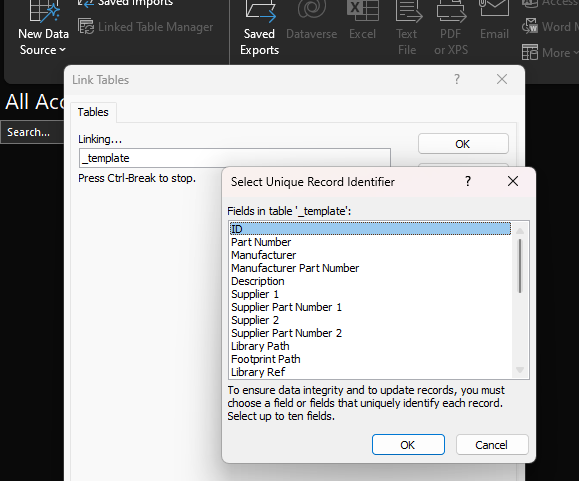
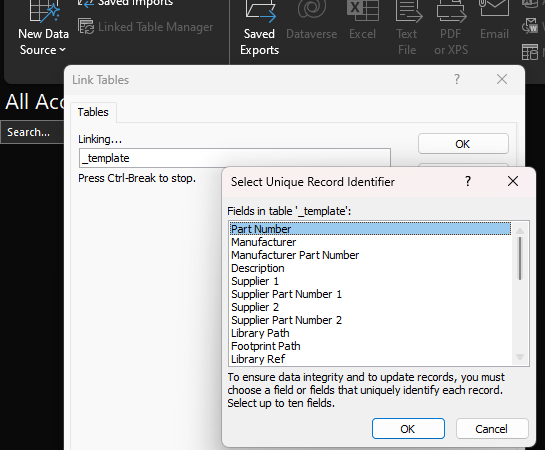
Added setting unique record identifier to readme

Changed region(s): [[0.0, 0.0, 1.0, 1.0]]

diff --git a/README.md b/README.md
@@ -159,7 +159,7 @@ The recommended way to add new components to the database is to set up a Data So
 <div style="text-align:center"><img src ="readme_pics/11.png" ></div>
 <div style="text-align:center"><font color="grey"><i>Fig. 11: Connecting to the Database: Set up a Data Source link (step 6)</i></font></div><p></p>
 
-#### 8. Select `ID` as the unique record identifier and click `OK`.
+#### 8. Select `Part Number` as the unique record identifier and click `OK`.
 
 <div style="text-align:center"><img src ="readme_pics/12.png" ></div>
 <div style="text-align:center"><font color="grey"><i>Fig. 12: Connecting to the Database: Set up a Data Source link (step 7)</i></font></div><p></p>
@@ -196,15 +196,30 @@ The recommended way to add new components to the database is to set up a Data So
 <div style="text-align:center"><img src ="readme_pics/17.png" ></div>
 <div style="text-align:center"><font color="grey"><i>Fig. 17: Adding a New Table to the Database: Export the new table (Step 3)</i></font></div><p></p>
 
-#### 6. To add a new component to the table, open the table fill in the fields with the component information.
+#### 6. Right click the table in the `Tables` pane and select `Linked Table Manager`.
 
 <div style="text-align:center"><img src ="readme_pics/18.png" ></div>
-<div style="text-align:center"><font color="grey"><i>Fig. 18: Adding a New Table to the Database: Add a new component to the table</i></font></div><p></p>
+<div style="text-align:center"><font color="grey"><i>Fig. 18: Adding a New Table to the Database: Set the unique record identifier (Step 1)</i></font></div><p></p>
 
-#### 7. You can copy and paste data from a spreadsheet into the table using the Paste Append feature under the `Home` tab.
+#### 7. Check the box next to `ODBC` and click `Refresh`.
 
 <div style="text-align:center"><img src ="readme_pics/19.png" ></div>
-<div style="text-align:center"><font color="grey"><i>Fig. 19: Adding a New Table to the Database: Copy and paste data into the table</i></font></div><p></p>
+<div style="text-align:center"><font color="grey"><i>Fig. 19: Adding a New Table to the Database: Set the unique record identifier (Step 2)</i></font></div><p></p>
+
+#### 8. Select the `Part Number` field as the unique record identifier and click `OK`.
+
+<div style="text-align:center"><img src ="readme_pics/20.png" ></div>
+<div style="text-align:center"><font color="grey"><i>Fig. 20: Adding a New Table to the Database: Set the unique record identifier (Step 3)</i></font></div><p></p>
+
+#### 9. To add a new component to the table, open the table fill in the fields with the component information.
+
+<div style="text-align:center"><img src ="readme_pics/21.png" ></div>
+<div style="text-align:center"><font color="grey"><i>Fig. 21: Adding a New Table to the Database: Add a new component to the table</i></font></div><p></p>
+
+#### 10. You can copy and paste data from a spreadsheet into the table using the Paste Append feature under the `Home` tab.
+
+<div style="text-align:center"><img src ="readme_pics/22.png" ></div>
+<div style="text-align:center"><font color="grey"><i>Fig. 22: Adding a New Table to the Database: Copy and paste data into the table</i></font></div><p></p>
 
 
 
